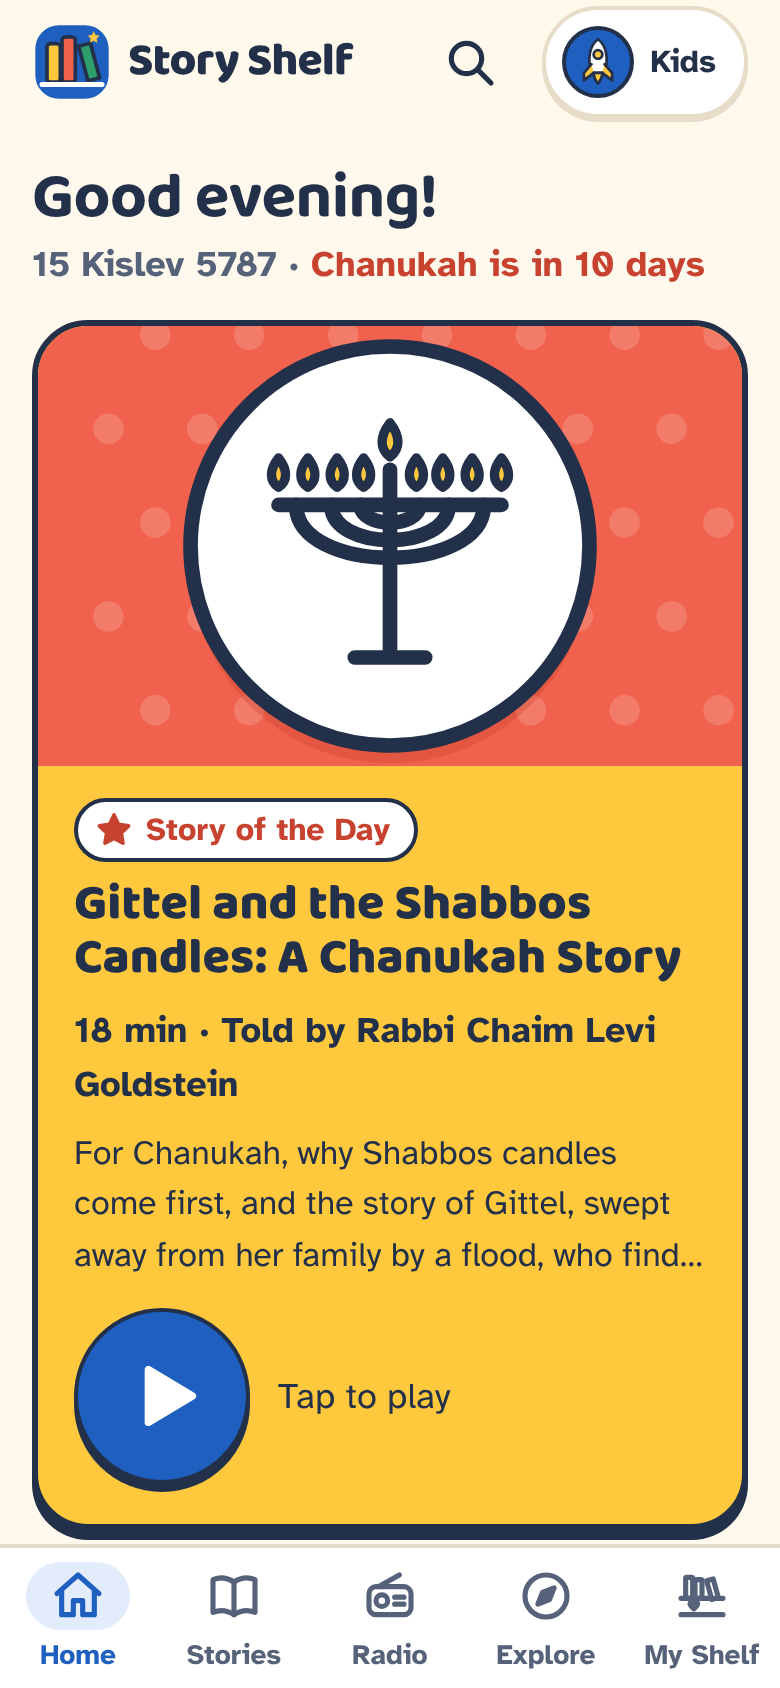
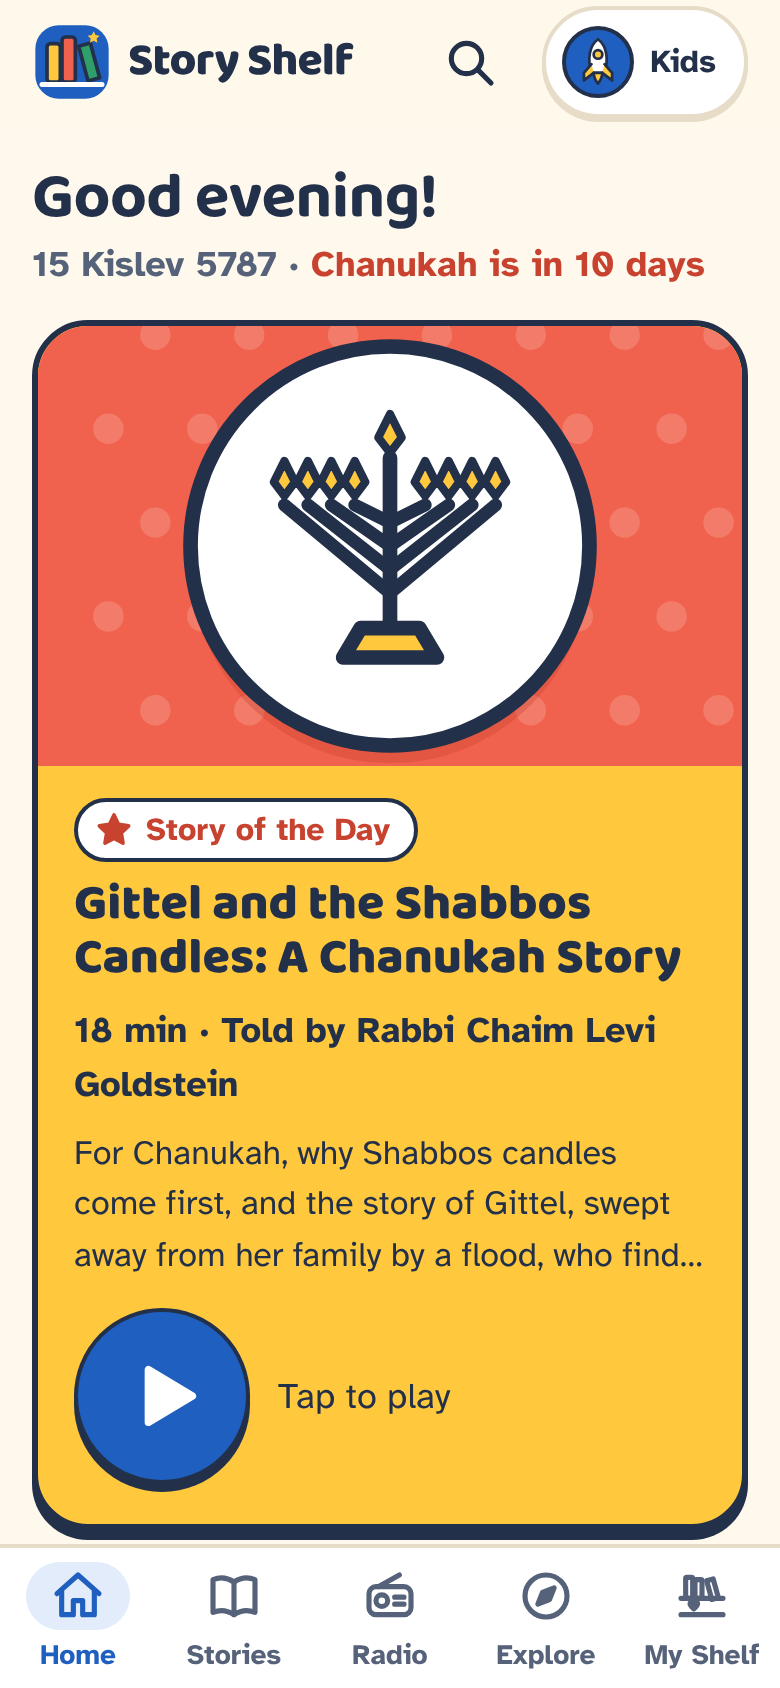
kids: square luchos, Rambam-style menorah, an open fabric tent (owner)
The luchos are two rectangles (Bava Basra 14a), the menorah has straight
diagonal branches rising to level lights with a raised shamash, and
Avraham Avinu's emblem is a scalloped fabric tent open on all sides.
Tests assert the luchos and menorah use no arcs or curves; kids.md §8.4
records the rule; home and explore screenshots re-shot.

Claude-Session: https://claude.ai/code/session_015b1FseWTHKMfsXVHgnabXQ

Changed region(s): [[0.3385, 0.2464, 0.6769, 0.4005]]

diff --git a/apps/kids/src/lib/icons.ts b/apps/kids/src/lib/icons.ts
@@ -68,12 +68,12 @@ const ICONS: Readonly<Record<string, string>> = {
   // ── Holidays ──────────────────────────────────────────────────────────
   shofar: `<path d="M5 34c5 0 9-4 13-10C24 14 32 7 42 6l3 7c-10 2-16 8-20 16-4 9-10 14-18 14Z" fill="A"/><path d="M14 30l4 4M19 23l5 4M26 15l4 5M34 9l3 6" stroke="W" stroke-width="2"/><path d="M5 34l2 9"/>`,
   sukkah: `<rect x="8" y="17" width="32" height="25" fill="W"/><path d="M3 17l4-7 4 7 4-7 4 7 4-7 4 7 4-7 4 7 4-7 4 7 4-7 2 4" fill="A"/><path d="M3 17h42"/><path d="M19 42V29h10v13"/><path d="M14 22v5M34 22v5"/><circle cx="14" cy="29" r="2" fill="A"/><circle cx="34" cy="29" r="2" fill="A"/>`,
-  menorah: `<path d="M24 16v20M18 43h12M24 36v7"/><path d="M5 17h38"/><path d="M8 17c0 12 32 12 32 0M14 17c0 8 20 8 20 0M19 17c0 4 10 4 10 0" /><path d="M5 9c1.6 2 1.6 4 0 5-1.6-1-1.6-3 0-5ZM10 9c1.6 2 1.6 4 0 5-1.6-1-1.6-3 0-5ZM15 9c1.6 2 1.6 4 0 5-1.6-1-1.6-3 0-5ZM19.5 9c1.6 2 1.6 4 0 5-1.6-1-1.6-3 0-5ZM28.5 9c1.6 2 1.6 4 0 5-1.6-1-1.6-3 0-5ZM33 9c1.6 2 1.6 4 0 5-1.6-1-1.6-3 0-5ZM38 9c1.6 2 1.6 4 0 5-1.6-1-1.6-3 0-5ZM43 9c1.6 2 1.6 4 0 5-1.6-1-1.6-3 0-5ZM24 3c1.8 2.3 1.8 4.5 0 5.8-1.8-1.3-1.8-3.5 0-5.8Z" fill="A" stroke-width="1.6"/><path d="M24 11v5" />`,
+  menorah: `<path d="M24 9V38" /><path d="M24 32 6 17M24 28 10 17M24 24 14 17M24 20 18 17M24 20 30 17M24 24 34 17M24 28 38 17M24 32 42 17" stroke-width="2.2"/><path d="M16 43h16l-3-5H19Z" fill="A"/><path d="M6 9.5l1.8 3.6-1.8 2.4-1.8-2.4ZM10 9.5l1.8 3.6-1.8 2.4-1.8-2.4ZM14 9.5l1.8 3.6-1.8 2.4-1.8-2.4ZM18 9.5l1.8 3.6-1.8 2.4-1.8-2.4ZM30 9.5l1.8 3.6-1.8 2.4-1.8-2.4ZM34 9.5l1.8 3.6-1.8 2.4-1.8-2.4ZM38 9.5l1.8 3.6-1.8 2.4-1.8-2.4ZM42 9.5l1.8 3.6-1.8 2.4-1.8-2.4Z" fill="A" stroke-width="1.4"/><path d="M24 1.5l2 4-2 2.6-2-2.6Z" fill="A" stroke-width="1.4"/>`,
   "fruit-tree": `<circle cx="24" cy="18" r="15" fill="A"/><path d="M24 33v10M24 29l-6-5M24 31l6-6M6 43h36"/><circle cx="16" cy="13" r="2.6" fill="W"/><circle cx="29" cy="10" r="2.6" fill="W"/><circle cx="33" cy="21" r="2.6" fill="W"/><circle cx="18" cy="23" r="2.6" fill="W"/>`,
   grogger: `<rect x="12" y="6" width="22" height="16" rx="3" fill="A" transform="rotate(-15 23 14)"/><path d="M17 11l10-3M18 16l10-3" stroke="W" stroke-width="2" transform="rotate(-15 23 14)"/><path d="M24 22v6"/><rect x="21" y="28" width="6" height="15" rx="3" fill="W"/><path d="M40 8l5-2M41 15h5M39 22l4 3"/>`,
   matzah: `<path d="M8 9l4 1 4-1 4 1 4-1 4 1 4-1 4 1 4-1v30l-4 1-4-1-4 1-4-1-4 1-4-1-4 1-4-1Z" fill="A"/><path d="M14 15v20M22 15v20M30 15v20M38 15v20" stroke="W" stroke-width="2" stroke-dasharray="1 4"/>`,
   bonfire: `<path d="M24 5c6 8 12 12 10 23-1 6-6 8-10 8s-9-2-10-8c-2-8 6-12 10-23Z" fill="A"/><path d="M24 19c3 4 5 7 4 11-1 3-7 3-8 0-1-4 2-7 4-11Z" fill="W"/><rect x="6" y="37" width="36" height="6" rx="3" fill="W"/><circle cx="9" cy="40" r="1.5" fill="I"/><circle cx="39" cy="40" r="1.5" fill="I"/>`,
-  luchos: `<path d="M5 43V15a8.5 8.5 0 0 1 17 0v28ZM26 43V15a8.5 8.5 0 0 1 17 0v28Z" fill="A"/><path d="M10 18h7M10 24h7M10 30h7M10 36h7M31 18h7M31 24h7M31 30h7M31 36h7" stroke="W" stroke-width="2"/>`,
+  luchos: `<rect x="5" y="7" width="17" height="36" fill="A"/><rect x="26" y="7" width="17" height="36" fill="A"/><path d="M9 14h9M9 20h9M9 26h9M9 32h9M9 38h6M30 14h9M30 20h9M30 26h9M30 32h9M30 38h6" stroke="W" stroke-width="2"/>`,
   wall: `<rect x="4" y="10" width="40" height="33" fill="A"/><path d="M4 18h40M4 26h40M4 34h40M14 10v8M30 10v8M22 18v8M38 18v8M10 26v8M28 26v8M18 34v9M36 34v9" stroke="W" stroke-width="2"/><path d="M4 10h40v33H4Z"/><path d="M30 10c0-4 3-7 6-7M30 10c-2-3-5-4-8-3" stroke="I"/><path d="M36 3c-2 1-3 3-2 5 2-1 3-3 2-5Z" fill="W"/>`,
   "calendar-star": `<rect x="5" y="9" width="38" height="34" rx="4" fill="W"/><path d="M5 13a4 4 0 0 1 4-4h30a4 4 0 0 1 4 4v6H5Z" fill="A"/><path d="M14 5v8M34 5v8"/><path d="M24 24l2.6 5.3 5.8.8-4.2 4.1 1 5.8-5.2-2.7-5.2 2.7 1-5.8-4.2-4.1 5.8-.8Z" fill="A"/>`,
   sun: `<circle cx="24" cy="24" r="11" fill="A"/><circle cx="42.0" cy="24.0" r="2.2" fill="I" stroke="none"/><circle cx="38.6" cy="34.6" r="2.2" fill="I" stroke="none"/><circle cx="29.6" cy="41.1" r="2.2" fill="I" stroke="none"/><circle cx="18.4" cy="41.1" r="2.2" fill="I" stroke="none"/><circle cx="9.4" cy="34.6" r="2.2" fill="I" stroke="none"/><circle cx="6.0" cy="24.0" r="2.2" fill="I" stroke="none"/><circle cx="9.4" cy="13.4" r="2.2" fill="I" stroke="none"/><circle cx="18.4" cy="6.9" r="2.2" fill="I" stroke="none"/><circle cx="29.6" cy="6.9" r="2.2" fill="I" stroke="none"/><circle cx="38.6" cy="13.4" r="2.2" fill="I" stroke="none"/>`,
@@ -84,7 +84,7 @@ const ICONS: Readonly<Record<string, string>> = {
   key: `<circle cx="14" cy="15" r="10" fill="A"/><circle cx="14" cy="15" r="3.5" fill="W"/><path d="M21 22l21 21M34 35l-5 5M39 40l-4 4M30 31l-3 3" stroke-width="3"/>`,
   "sprout-tree": `<path d="M24 43V18M24 30l-9-8M24 25l9-9M24 36l8-5"/><ellipse cx="24" cy="11" rx="5" ry="7" fill="A"/><ellipse cx="12" cy="19" rx="5" ry="6.5" fill="A" transform="rotate(-40 12 19)"/><ellipse cx="36" cy="13" rx="5" ry="6.5" fill="A" transform="rotate(40 36 13)"/><ellipse cx="35" cy="29" rx="4" ry="5.5" fill="W" transform="rotate(60 35 29)"/><path d="M12 43h24"/>`,
   "rock-water": `<path d="M4 43c0-11 6-16 14-16 7 0 9-4 15-3 7 1 11 9 10 19Z" fill="A"/><path d="M24 27c0 3 2 5 4 5" stroke="W" stroke-width="2.4"/><circle cx="25" cy="30" r="2.6" fill="W"/><path d="M25 3c2.5 3.5 2.5 6 0 7.5-2.5-1.5-2.5-4 0-7.5ZM25 14c2 2.8 2 4.8 0 6-2-1.2-2-3.2 0-6Z" fill="W"/>`,
-  tent: `<path d="M3 19 24 7l21 12Z" fill="A"/><path d="M6 19v24M18 19v24M30 19v24M42 19v24M2 43h44"/><circle cx="12" cy="21.5" r="1.6" fill="W" stroke="none"/><circle cx="24" cy="21.5" r="1.6" fill="W" stroke="none"/><circle cx="36" cy="21.5" r="1.6" fill="W" stroke="none"/>`,
+  tent: `<path d="M17 22v15M31 22v15" stroke-width="1.8"/><path d="M3 21 24 6l21 15q-3.5 4-7 0-3.5 4-7 0-3.5 4-7 0-3.5 4-7 0-3.5 4-7 0-3.5 4-7 0Z" fill="A"/><path d="M24 7 13 20M24 7l11 13" stroke="W" stroke-width="1.6"/><path d="M9 24v18M39 24v18"/><path d="M3 21 1 41M45 21l2 20" stroke-width="1.4"/><circle cx="24" cy="5" r="1.8" fill="I"/><path d="M5 43h38"/>`,
   globe: `<circle cx="24" cy="24" r="19" fill="A"/><path d="M24 5c-8 6-8 32 0 38M24 5c8 6 8 32 0 38M8 15c10 4 22 4 32 0M8 33c10-4 22-4 32 0" stroke="W" stroke-width="2"/><circle cx="24" cy="24" r="19"/>`,
   yeshiva: `<rect x="8" y="20" width="32" height="22" fill="A"/><path d="M4 22 24 10l20 12"/><path d="M24 10V3h5" /><path d="M20 42v-9a4 4 0 0 1 8 0v9" fill="W"/><rect x="12" y="25" width="5" height="5" fill="W"/><rect x="31" y="25" width="5" height="5" fill="W"/><path d="M22 18c0-3 4-3 4 0v2h-4Z" fill="W"/>`,
   cup: `<path d="M11 5h26c0 15-5 21-13 21S11 20 11 5Z" fill="A"/><path d="M14 11h20" stroke="W" stroke-width="2"/><path d="M24 26v10"/><path d="M15 42c0-4 4-6 9-6s9 2 9 6Z" fill="A"/>`,

diff --git a/apps/kids/test/icons.test.ts b/apps/kids/test/icons.test.ts
@@ -36,6 +36,19 @@ describe("no cross-like shapes (owner rule, kids.md §8.4)", () => {
     expect(crossingPairs(svg)).toBe(0);
   });
 
+  it("the luchos are square: straight edges only, no arched tops (Bava Basra 14a)", () => {
+    const svg = iconBody("luchos", { accent: "#FFC83D" });
+    for (const m of svg.matchAll(/\sd="([^"]+)"/g)) expect(m[1]).not.toMatch(/[aAcCqQsStT]/);
+    expect(svg).not.toMatch(/<(circle|ellipse)/);
+    expect(svg).not.toMatch(/\srx=/);
+  });
+
+  it("the menorah has straight diagonal branches, level lights and a raised shamash (the Rambam's drawing)", () => {
+    const svg = iconBody("menorah", { accent: "#FFC83D" });
+    for (const m of svg.matchAll(/\sd="([^"]+)"/g)) expect(m[1]).not.toMatch(/[aAcCqQsStT]/);
+    expect(svg).not.toMatch(/<(circle|ellipse)/);
+  });
+
   const patterns: Pattern[] = [
     "forest",
     "hills",

diff --git a/docs/sites/kids.md b/docs/sites/kids.md
@@ -426,6 +426,8 @@ Every cover is an SVG composed at build time from the item's tags, also rasteris
 
 **No cross-like shapes (owner, 2026-11-25):** no four-pointed stars or sparkles, plus signs, X marks or other shapes that could read as a cross, anywhere in icons, cover patterns, emblems, badges or decoration ("might make people nervous, like a cross"). Use dots, circles, crescents and five-pointed stars instead; a Magen David is fine. In the built site this means: stars are five-pointed, sun rays are dots, the scales stand on a triangle, the globe has only curved lines, logs are stacked rather than crossed, there is no spire on the Beis Hamikdash, close buttons use a down chevron, and the browser's × in the search box is hidden. A test (`apps/kids/test/icons.test.ts`) checks the icon set for four-pointed stars and crossing straight strokes.
 
+**Luchos and menorah (owner, 2026-11-25):** the luchos are square, two rectangles with no arched tops (Bava Basra 14a). The menorah follows the Rambam's drawing, as the Rebbe emphasised: straight diagonal branches rising from the stem to one level, no curved arms; the Chanukah menorah has 8 level lights and a raised shamash. Avraham Avinu's emblem is a fabric tent open on all sides. The icon test asserts that the luchos and menorah use no arcs or curves.
+
 ---
 
 ## 9. Data needed from the public export
